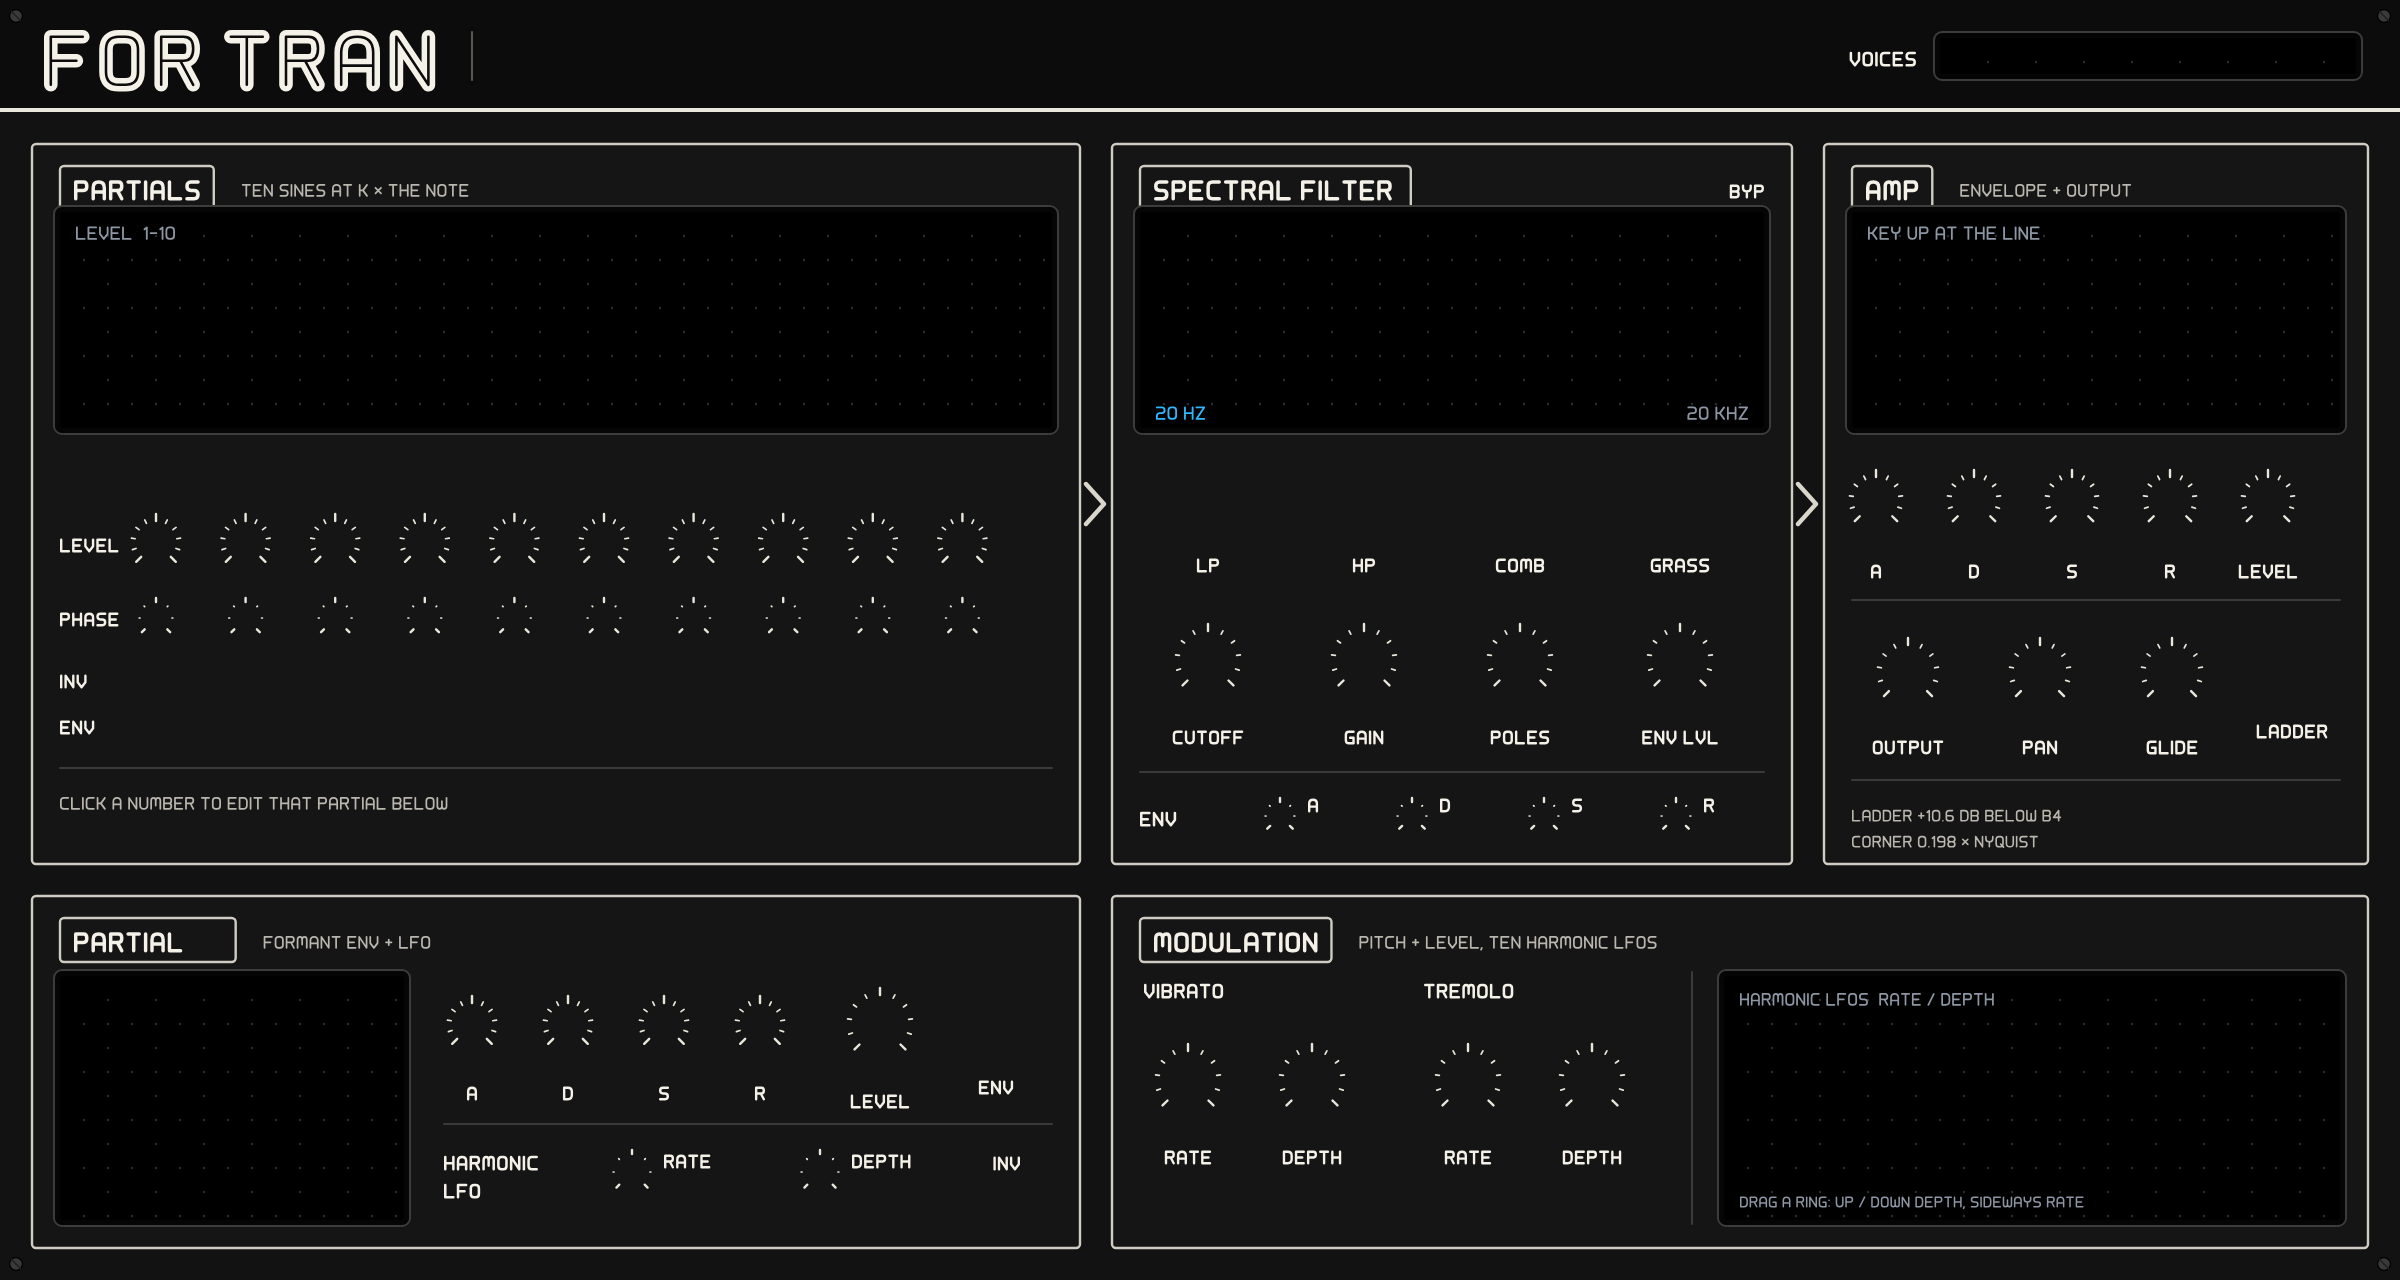
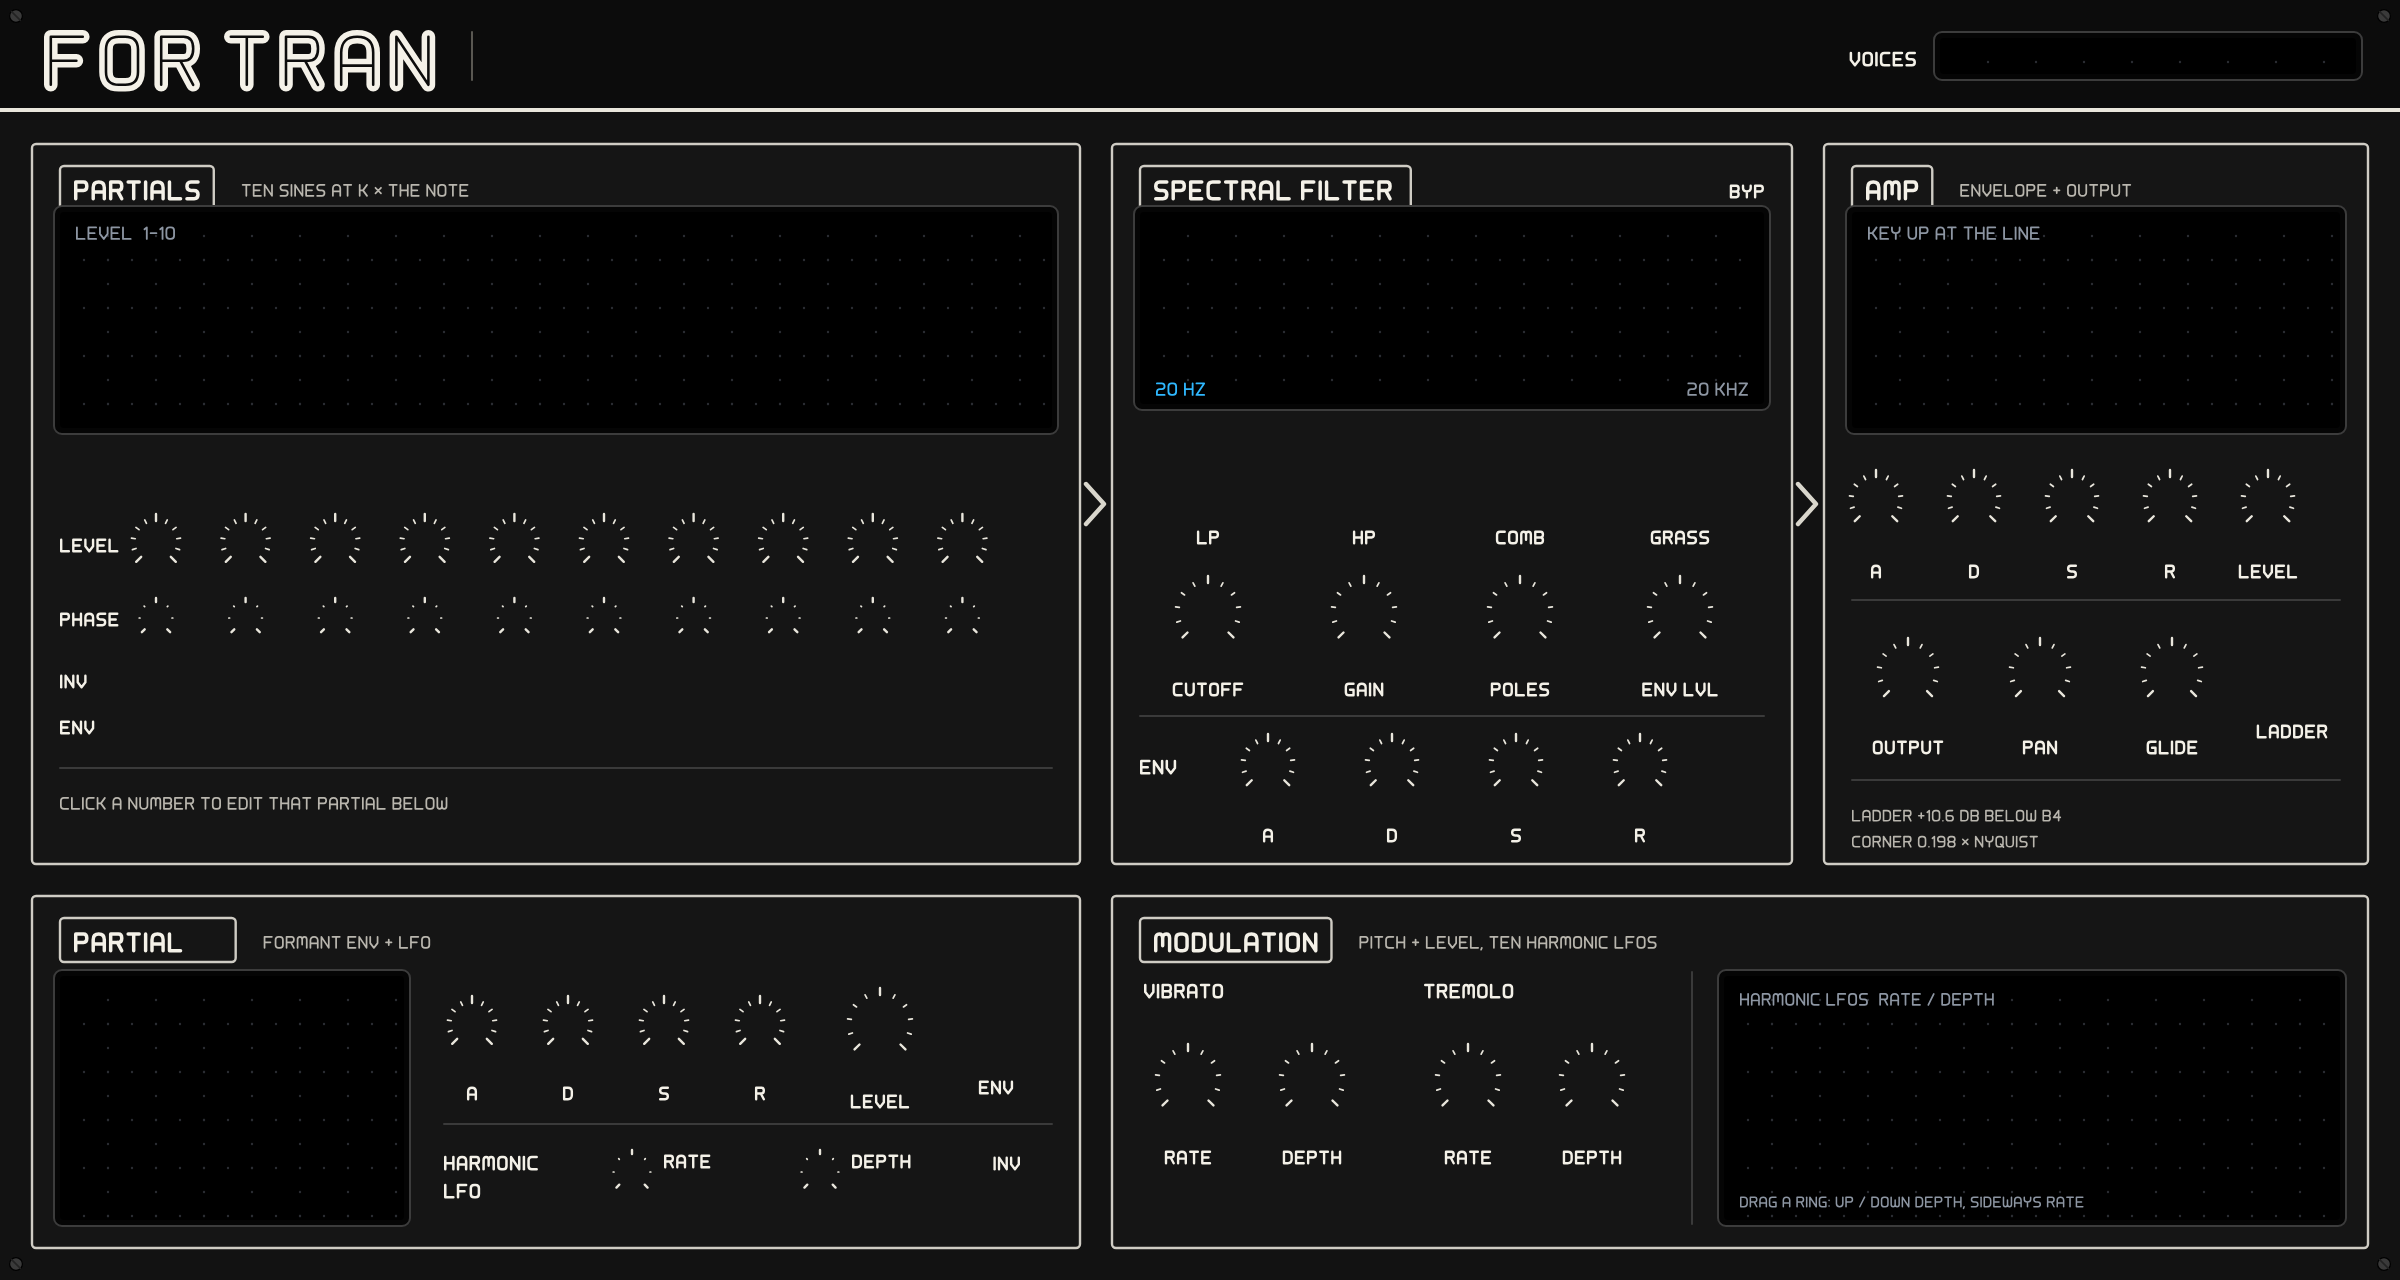
Polivoks panel: filter envelope knobs the size of the amp's
The filter section's ADSR row was four tiny knobs with their values beside
them. It is now the amp row's knob (15) with the value and name underneath.
To make room the filter screen is 12 px shorter and the selectors and the
four main knobs move up; the panel bitmap and wear are re-rendered to match.

Claude-Session: https://claude.ai/code/session_01WtXSs6SDa7e3diwY72yFg2

diff --git a/tools/polivoks/d2p.js b/tools/polivoks/d2p.js
@@ -43,21 +43,20 @@ chevron(548, 252);
 // ---- FILTER ---------------------------------------------------------------
 section(556, 72, 340, 360, 'SPECTRAL FILTER');
 lamp(844, 94, 0); text(882, 98, 'BYP', { size: 9, anchor: 'end' });
-filterOled(570, 106, 312, 108, { sel: 3, label: ' ', right: '2.40K' });  // caption drawn live by the plug-in
-selector(604, 258, 11, ['OFF', 'ON'], 1, { label: 'LP' });
-selector(682, 258, 11, ['OFF', 'ADD', 'MULT', 'MAX'], 0, { label: 'HP', ns: 7.5, lr: 20 });
-selector(760, 258, 11, ['OFF', 'ADD', 'MULT', 'MAX'], 1, { label: 'COMB', ns: 7.5, lr: 20 });
-selector(840, 258, 11, ['OFF', 'ADD', 'MULT', 'MAX'], 0, { label: 'GRASS', ns: 7.5, lr: 20 });
-knob(604, 330, 18, 0.62, '2.40K', 'CUTOFF');
-knob(682, 330, 18, 0.35, '35 %', 'GAIN');
-knob(760, 330, 18, 0.6, '4', 'POLES');
-knob(840, 330, 18, 0.8, '60 %', 'ENV LVL');
-rule(570, 386, 882, 386);
-sub(570, 412, 'ENV', { size: 9.5 });
+filterOled(570, 106, 312, 96, { sel: 3, label: ' ', right: '2.40K' });  // caption drawn live by the plug-in
+selector(604, 244, 11, ['OFF', 'ON'], 1, { label: 'LP' });
+selector(682, 244, 11, ['OFF', 'ADD', 'MULT', 'MAX'], 0, { label: 'HP', ns: 7.5, lr: 20 });
+selector(760, 244, 11, ['OFF', 'ADD', 'MULT', 'MAX'], 1, { label: 'COMB', ns: 7.5, lr: 20 });
+selector(840, 244, 11, ['OFF', 'ADD', 'MULT', 'MAX'], 0, { label: 'GRASS', ns: 7.5, lr: 20 });
+knob(604, 306, 18, 0.62, '2.40K', 'CUTOFF');
+knob(682, 306, 18, 0.35, '35 %', 'GAIN');
+knob(760, 306, 18, 0.6, '4', 'POLES');
+knob(840, 306, 18, 0.8, '60 %', 'ENV LVL');
+rule(570, 358, 882, 358);
+sub(570, 386, 'ENV', { size: 9.5 });
 [['A', '20 MS', 0.25], ['D', '350 MS', 0.5], ['S', '30 %', 0.3], ['R', '300 MS', 0.45]].forEach((k, i) => {
-  knob(640 + i * 66, 408, 9, k[2], null, null);
-  text(640 + i * 66 + 14, 405, k[0], { size: 9 });
-  dyn (() => otext(640 + i * 66 + 14, 417, k[1], T.muted, 'start', 7.5));
+  // the same size as the amp's ADSR row
+  knob(634 + i * 62, 382, 15, k[2], k[1], k[0], { vs: 8.5 });
 });
 
 chevron(904, 252);

diff --git a/source/ForTranEditor.cpp b/source/ForTranEditor.cpp
@@ -166,23 +166,23 @@ bool PLUGIN_API ForTranEditor::open (void* parent, const PlatformType& platformT
 
 	// ---- SPECTRAL FILTER --------------------------------------------------
 	addLamp (kBypass, 844., 94.);
-	mFilterOled = new PvFilterOled (CRect (570., 106., 882., 214.));
+	mFilterOled = new PvFilterOled (CRect (570., 106., 882., 202.));
 	frame->addView (mFilterOled);
-	addSelector (kLowPassState,  604., 258., 11., offOn,   8.5, 22.);
-	addSelector (kHighPassState, 682., 258., 11., fourWay, 7.5, 20.);
-	addSelector (kCombState,     760., 258., 11., fourWay, 7.5, 20.);
-	addSelector (kGrassState,    840., 258., 11., fourWay, 7.5, 20.);
+	addSelector (kLowPassState,  604., 244., 11., offOn,   8.5, 22.);
+	addSelector (kHighPassState, 682., 244., 11., fourWay, 7.5, 20.);
+	addSelector (kCombState,     760., 244., 11., fourWay, 7.5, 20.);
+	addSelector (kGrassState,    840., 244., 11., fourWay, 7.5, 20.);
 	{
 		const ParamID tags[4] = { kCutoff, kFilterGain, kPoles, kFilterLevel };
 		const double xs[4] = { 604., 682., 760., 840. };
 		for (int i = 0; i < 4; ++i)
-			addValue (addKnob (tags[i], xs[i], 330., 18.), xs[i], 359., 9.5);
+			addValue (addKnob (tags[i], xs[i], 306., 18.), xs[i], 335., 9.5);
 	}
+	// The filter envelope, the same size as the amp's ADSR row.
 	for (int i = 0; i < 4; ++i)
 	{
-		const double x = 640. + i * 66.;
-		addValue (addKnob (static_cast<ParamID> (kFilterAttack + i), x, 408., 9.),
-		          x + 14., 417., 7.5, SciFi::Align::Left, Pv::kMuted);
+		const double x = 634. + i * 62.;
+		addValue (addKnob (static_cast<ParamID> (kFilterAttack + i), x, 382., 15.), x, 408., 8.5);
 	}
 
 	// ---- AMP ----------------------------------------------------------------
